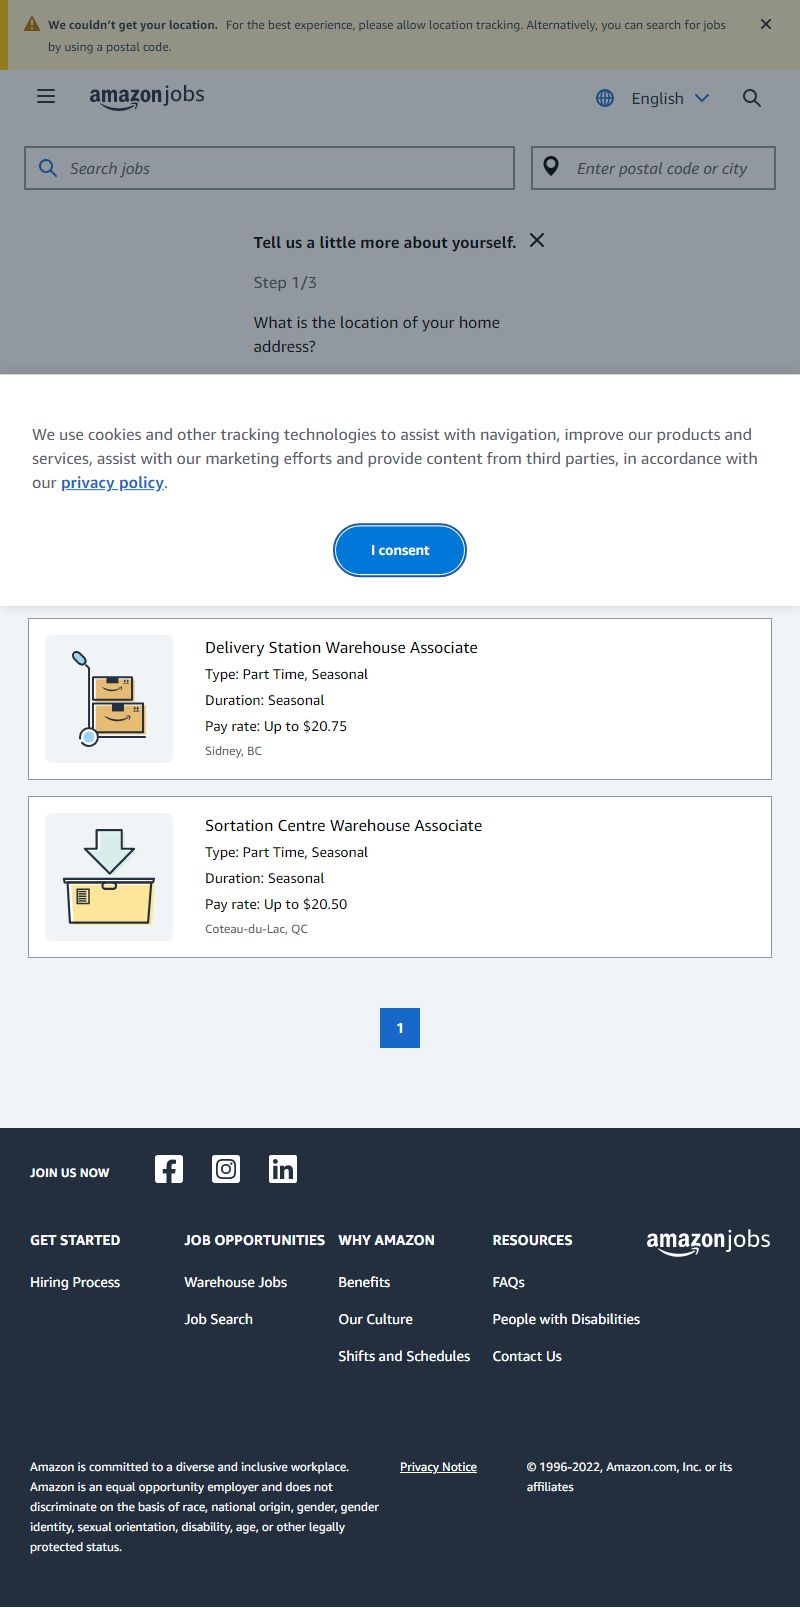
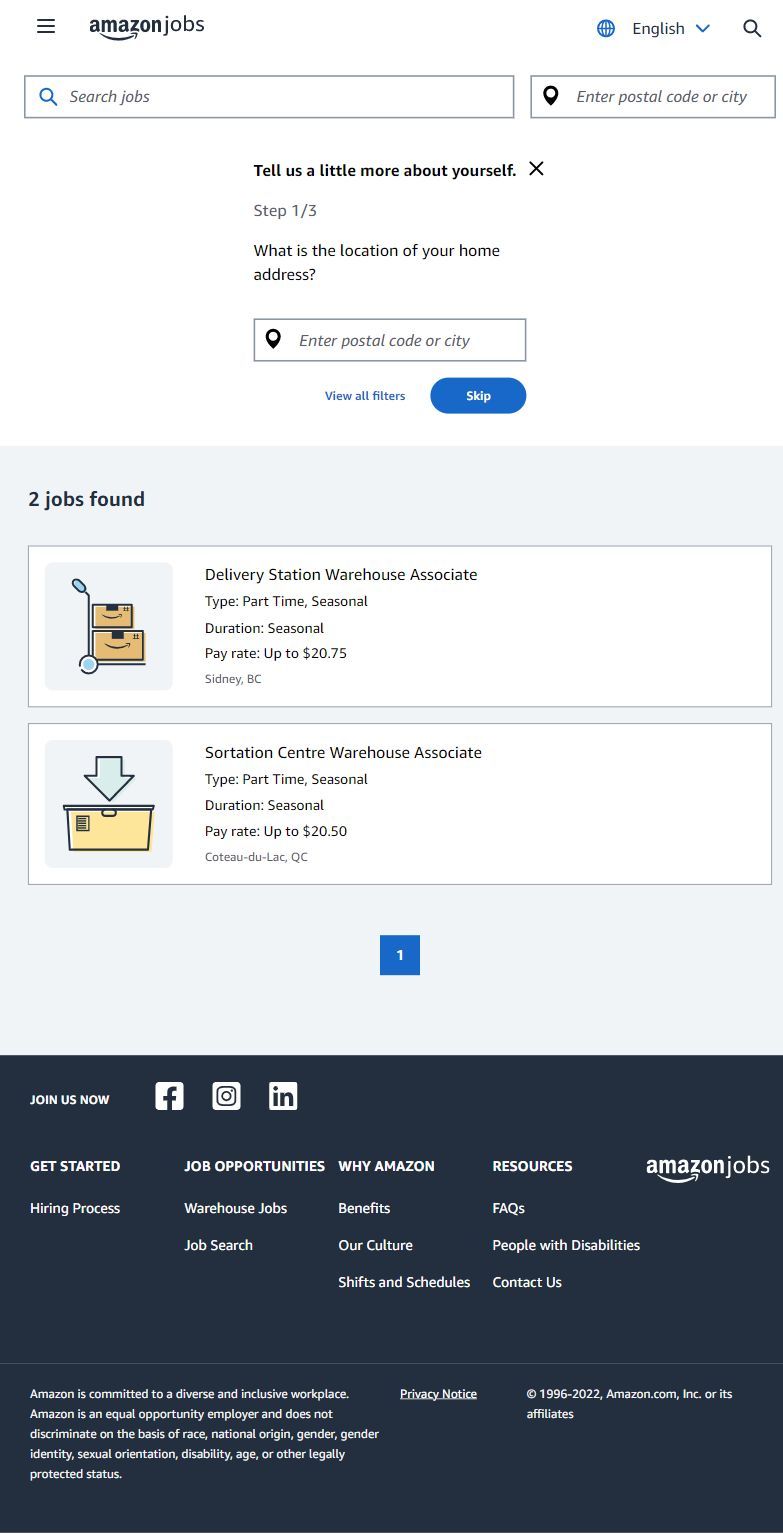
update scrape

diff --git a/scrapers/screen-botsito.js b/scrapers/screen-botsito.js
@@ -13,36 +13,37 @@ const screenBotsito = async (res) => {
       process.env.NODE_ENV === "production"
         ? process.env.PUPPETEER_EXECUTABLE_PATH
         : puppeteer.executablePath(),
+    headless: false
   })
   try {
     const page = await browser.newPage()
 
-    await page.goto("https://developer.chrome.com/")
+    await page.goto('https://hiring.amazon.ca/app#/jobSearch')
+    console.log("--WAITBTN--")
 
-    // Set screen size
-    await page.setViewport({ width: 1080, height: 1024 })
+    await page.waitForSelector("#stencil-modal-body > div > div > div > div > div:nth-child(2) > button")
+    const cookieBtn = await page.$("#stencil-modal-body > div > div > div > div > div:nth-child(2) > button")
+    if (cookieBtn) {
+      console.log("--BOTSITOBTN--")
 
-    // Type into search box
-    await page.type(".search-box__input", "automate beyond recorder")
+      await cookieBtn.click()
+    }
 
-    // Wait and click on first result
-    const searchResultSelector = ".search-box__link"
-    await page.waitForSelector(searchResultSelector)
-    await page.click(searchResultSelector)
+    console.log("--BOTSITO CLIC--")
 
-    // Locate the full title with a unique string
-    const textSelector = await page.waitForSelector(
-      "text/Customize and automate"
-    )
-    const fullTitle = await textSelector.evaluate((el) => el.textContent)
 
-    // Print the full title
-    const logStatement = `The title of this blog post is ${fullTitle}`
-    console.log(logStatement)
-    res.send(logStatement)
-  } catch (e) {
+    await new Promise(r => setTimeout(r, 1000))
+    console.log("--BOTSITO ESPERO--")
+
+    await page.screenshot({ path: 'jobs.jpg', fullPage: true })
+    console.log("--BOTSITO SCREEN--")
+
+    console.log("--BOTSITO FINISHED--")
+
+    res.status(200).json({ "screenshot": "" })
+  } catch (error) {
     console.error(e)
-    res.send(`Something went wrong while running Puppeteer: ${e}`)
+    res.status(500).json({ error })
   } finally {
     await browser.close()
   }
